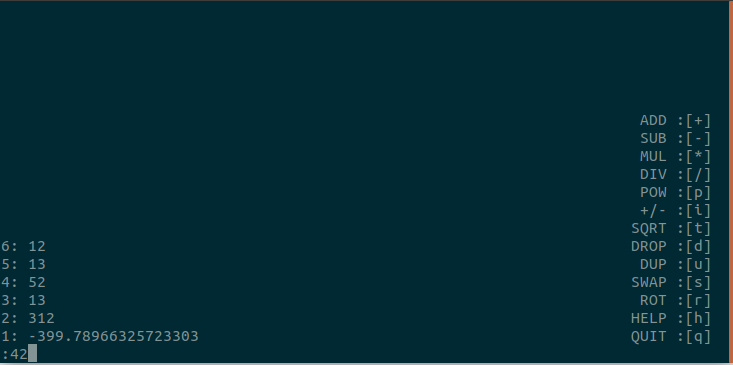
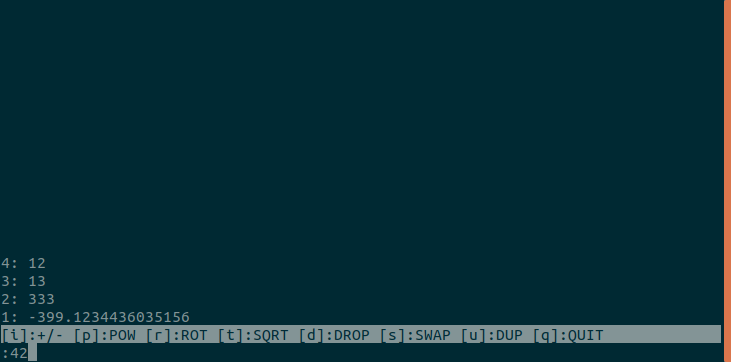
Help review

Changed region(s): [[0.0, 0.0, 1.0, 1.0]]

diff --git a/main.go b/main.go
@@ -10,9 +10,10 @@ import (
 	"github.com/gdamore/tcell"
 )
 
+const Help = "[i]:+/- [p]:POW [r]:ROT [t]:SQRT [d]:DROP [s]:SWAP [u]:DUP [q]:QUIT"
+
 var (
 	sc    tcell.Screen
-	st    tcell.Style
 	stack []float64
 	input []rune
 )
@@ -34,51 +35,34 @@ func screen() {
 		os.Exit(1)
 	}
 
-	st = tcell.StyleDefault
 	stack = []float64{}
 	input = []rune{}
 }
 
-func draw(help bool) {
+func draw() {
 	w, h := sc.Size()
+	style := tcell.StyleDefault
+	reverse := style.Reverse(true)
 
 	sc.Clear()
 
-	sc.SetContent(0, h-1, ':', nil, st)
+	sc.SetContent(0, h-1, ':', nil, style)
 
 	for c, r := range input {
-		sc.SetContent(1+c, h-1, r, nil, st)
+		sc.SetContent(1+c, h-1, r, nil, style)
 	}
 
 	sc.ShowCursor(1+len(input), h-1)
 
-	for l, n := range stack {
-		for c, r := range []rune(fmt.Sprintf("%v: %v", l+1, n)) {
-			sc.SetContent(c, h-2-l, r, nil, st)
-		}
+	help := fmt.Sprintf("%-*v", w, Help)
+
+	for c, r := range help {
+		sc.SetContent(c, h-2, r, nil, reverse)
 	}
 
-	if help {
-		keys := []string{
-			"ADD :[+]",
-			"SUB :[-]",
-			"MUL :[*]",
-			"DIV :[/]",
-			"+/- :[i]",
-			"DUP :[u]",
-			"ROT :[r]",
-			"POW :[p]",
-			"SQRT :[t]",
-			"DROP :[d]",
-			"SWAP :[s]",
-			"HELP :[h]",
-			"QUIT :[q]",
-		}
-
-		for l, str := range keys {
-			for c, r := range str {
-				sc.SetContent(w-1-len(str)+c, h-1-len(keys)+l, r, nil, st)
-			}
+	for l, n := range stack {
+		for c, r := range []rune(fmt.Sprintf("%v: %v", l+1, n)) {
+			sc.SetContent(c, h-3-l, r, nil, style)
 		}
 	}
 
@@ -87,7 +71,7 @@ func draw(help bool) {
 
 func init() {
 	flag.Usage = func() {
-		fmt.Printf("Usage: %s\nPress [h] for help\n", os.Args[0])
+		fmt.Printf("Usage: %s\n", os.Args[0])
 		flag.PrintDefaults()
 	}
 }
@@ -96,8 +80,6 @@ func main() {
 	flag.Parse()
 
 	screen()
-
-	help := false
 
 	for {
 		ev := sc.PollEvent()
@@ -204,9 +186,6 @@ func main() {
 						}
 					}
 
-				case 'h':
-					help = !help
-
 				case 'q':
 					sc.Fini()
 					os.Exit(0)
@@ -229,11 +208,11 @@ func main() {
 				sc.Sync()
 			}
 
-			draw(help)
+			draw()
 
 		case *tcell.EventResize:
 			sc.Sync()
-			draw(help)
+			draw()
 		}
 	}
 }

diff --git a/README.md b/README.md
@@ -8,10 +8,6 @@ Available keys:
 
 Key | Command
 ----|--------
-[+] | ADD
-[-] | SUB
-[*] | MUL
-[/] | DIV
 [i] | +/-
 [u] | DUP
 [r] | ROT
@@ -19,7 +15,6 @@ Key | Command
 [t] | SQRT
 [d] | DROP
 [s] | SWAP
-[h] | HELP
 [q] | QUIT
 
 ## Build
